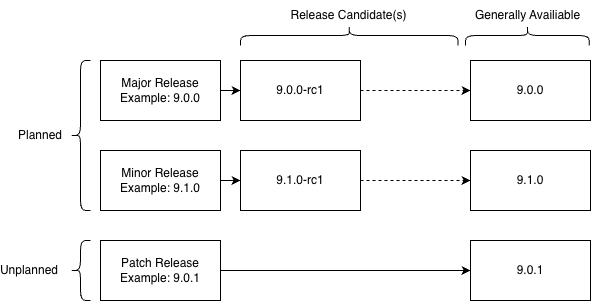
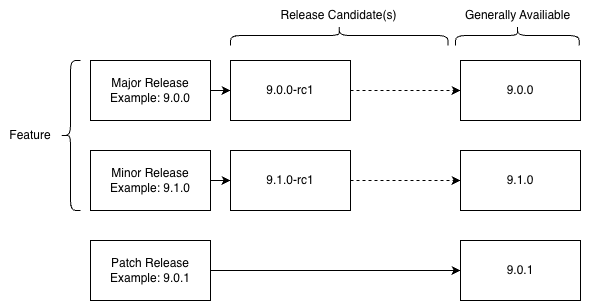
fixes diagram and references to planned/unplanned

diff --git a/content/blog/2026-04-09-on-release-candidates/index.md b/content/blog/2026-04-09-on-release-candidates/index.md
@@ -12,7 +12,7 @@ A *release candidate* (RC) just came out for Valkey. You’ve likely heard of th
 
 Before pulling apart the specific reasons to use a release candidate, it’s important to talk about generally available (GA) releases in Valkey. Valkey broadly follows the SemVer spec so there are two types of GA releases in Valkey: *feature* and *patch*. Valkey has two types of *feature* releases: major release (N.0.0: for example 8.0.0, 9.0.0, etc.) and minor release (X.N.0: 8.1.0, 9.1.0, etc.). Alternately, *patch* releases are patches (X.X.N: 7.2.6, 8.0.1, 8.1.1, etc.). 
 
-For each planned release, there is at least one release candidate. A release candidate is a trial release for the GA : the release *should* include all user-surfaced features and changes of planned for the GA. ‘Should’ in the previous sentence is doing a lot of heavy lifting: because the RC is a trial it doesn’t mean it’s perfect. Indeed, a great time to have a release oopsy is during a release candidate, not the GA. The other component is that *internal* changes may not make it to the first release candidate known as ‘rc1’. After the first release there may be subsequent release candidates in sequential order: ‘rc2’, ‘rc3’, and so on. There are as many release candidates as needed but typically expect 2 or 3 release candidates per GA version. After the final release candidate there is the GA release of the version with the delta between the final RC and GA intended to be small. Unplanned releases (patches) typically don’t have release candidates as they are designed to only fix bugs and consequently the scope is more limited.
+For each feature release, there is at least one release candidate. A release candidate is a trial release for the GA : the release *should* include all user-surfaced features and changes of planned for the GA. ‘Should’ in the previous sentence is doing a lot of heavy lifting: because the RC is a trial it doesn’t mean it’s perfect. Indeed, a great time to have a release oopsy is during a release candidate, not the GA. The other component is that *internal* changes may not make it to the first release candidate known as ‘rc1’. After the first release there may be subsequent release candidates in sequential order: ‘rc2’, ‘rc3’, and so on. There are as many release candidates as needed but typically expect 2 or 3 release candidates per GA version. After the final release candidate there is the GA release of the version with the delta between the final RC and GA intended to be small. Patche releases typically don’t have release candidates as they are designed to only fix bugs and consequently the scope is more limited.
 
 ![A diagram showing GA, RC, major, minor, and patch](rc-blog-diagram.png)
 
